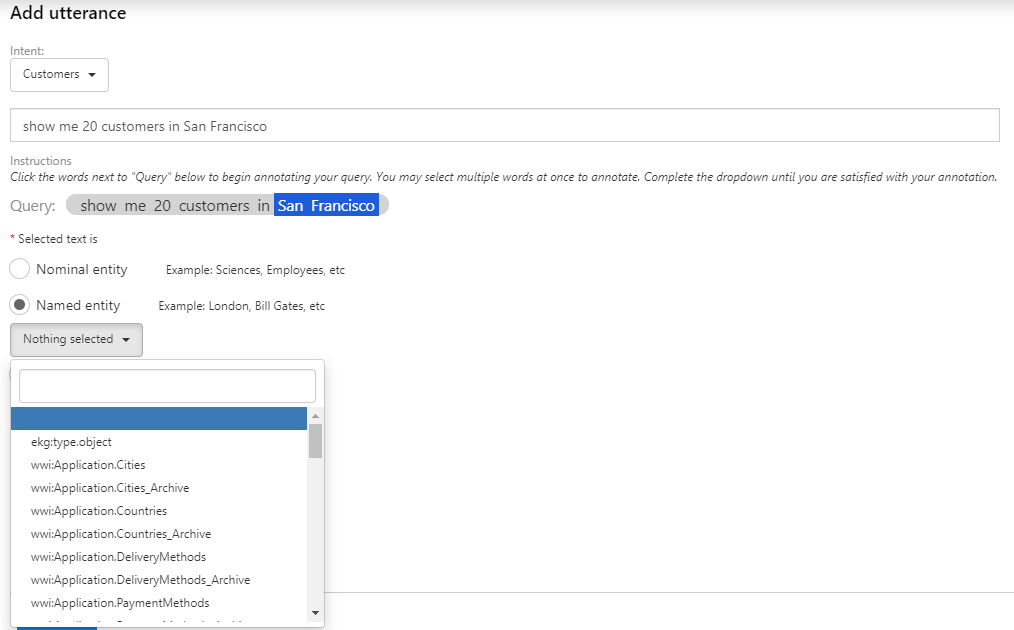
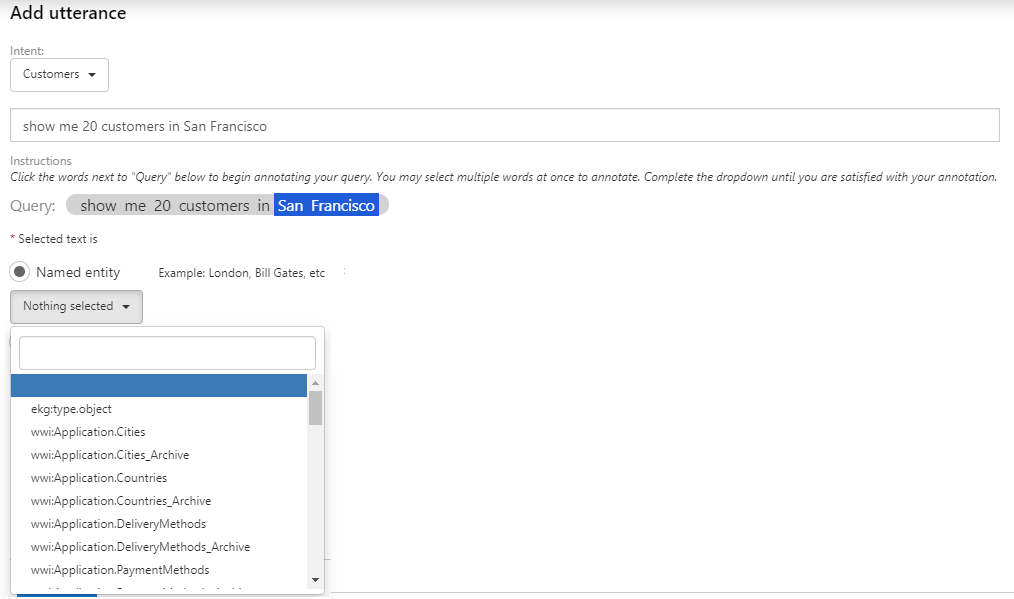
1. Add "Fast train model" and "Full train model" related description. 2. Delete all "nominal entity" related description. 3. Change pictures to fit with corresponding description.

diff --git a/enterprise-graph/intent-classifier.md b/enterprise-graph/intent-classifier.md
@@ -58,7 +58,7 @@ To add a new utterance, you can click the 'Add' button on the toolbar, then you 
 
 You can type in an utterance that you come up with, after this, a query will be shown on the bottom where you can add the annotations. 
 
-There are three types of annotations: ```Nominal entity```, ```Named entity``` and ```Other```. For example, you can annotate 'Sciences' or 'Employees' as ```Nominal entity``` and annotate 'London' or 'Bill Gates' as ```Named entity```. For ```Other```, it is for primitive type or custom tag.
+There are two types of annotations: ```Named entity``` and ```Other```. For example, you can annotate 'London' or 'Bill Gates' as ```Named entity```. For ```Other```, it is for primitive type or custom tag.
 
 To add an annotation, you can select the words by clicking them, you may select multiple at once to annotate. Then you will see the radio buttons.
 
@@ -67,8 +67,6 @@ To add an annotation, you can select the words by clicking them, you may select 
 For example, we are annotating 'San Francisco'. We can select ```Named entity``` and then choose the corresponding 'Entity type' from your published ontology. 
 
 ![Add-utterance-named-entity view](media/intent-classifier-tutorial/add-utterance-named-entity.png)
-
-Similarly, we can add a ```Nominal entity``` annotation.
 
 For custom tag, you can either choose from the history list or add a new one by clicking 'Add custom tag':
 
@@ -86,7 +84,11 @@ The top panel displays the metrics that summarized the current status for intent
 
 ![Intent classifier summary metrics](./media/intent-classifier-tutorial/ic-summary-metrics.png)
 
-You can click on the "Train model" button under the metrics to start training. It may take several minutes to finish the training. You can click the "Refresh model status" button to refresh the current model status.
+You can click on either "Fast train model" or "Full train model" button under the metrics to start training. It may take several minutes to finish the training. You can click the "Refresh model status" button to refresh the current model status.
+
+> The difference between "Fast train model" and "Full train model":<br />
+> Fast train model: mainly for quick fixing of DSAT, resulting model is less flexible and requires strict match to utterance to correctly interpret; 
+> Full train model: resulting model is able to handle unseen mentions and variations in utterance, model is more versatile and flexible
 
 After the training is completed, a search box will emerge. You can enter utterance that you created before or some similar sentences to validate the trained model. For example, you can enter "find customers in Los Angeles" in the search box and click the "Search" button, the validate result will show up under the search box. 
 
